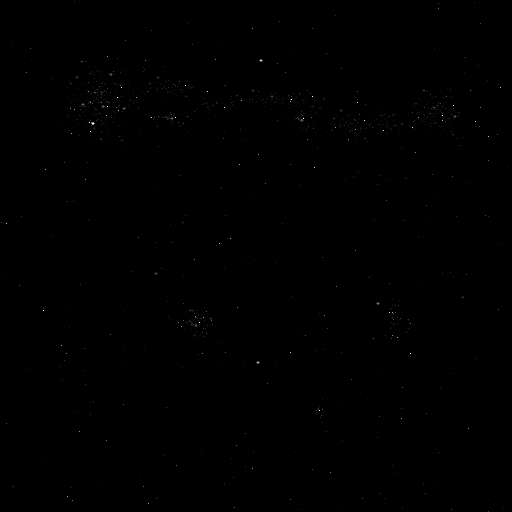
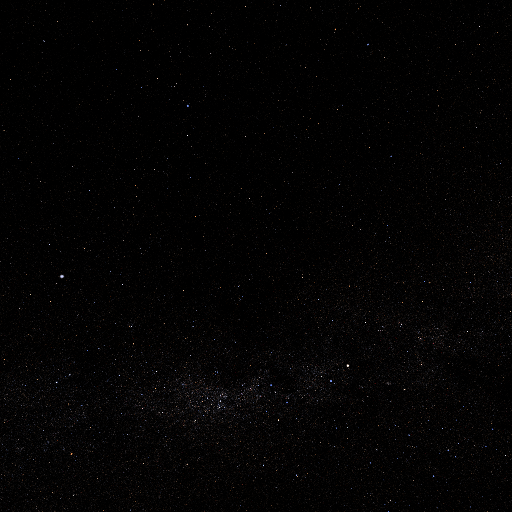
planetgen: Improve skybox
Use a nicer looking skybox and also have the stars rotate along with
the sun.

diff --git a/src/main.rs b/src/main.rs
@@ -3013,10 +3013,20 @@ impl BehaviourMessages for MainDriver {
             quad_sphere.update(scene);
         }
 
+        let sun_pos = self.sun_controller.as_ref().unwrap().sun_pos;
+        let cam_rot = self.camera_controller.as_ref().unwrap().cam_rot;
+        let skybox_rot = Quaternion::between_vectors(Vector3::unit_z(), sun_pos);
+
         self.skybox_cam_obj
             .as_ref()
             .unwrap()
-            .set_world_rot(scene, self.camera_controller.as_ref().unwrap().cam_rot)
+            .set_world_rot(scene, cam_rot)
+            .unwrap();
+
+        self.skybox_obj
+            .as_ref()
+            .unwrap()
+            .set_world_rot(scene, skybox_rot)
             .unwrap();
     }
 
